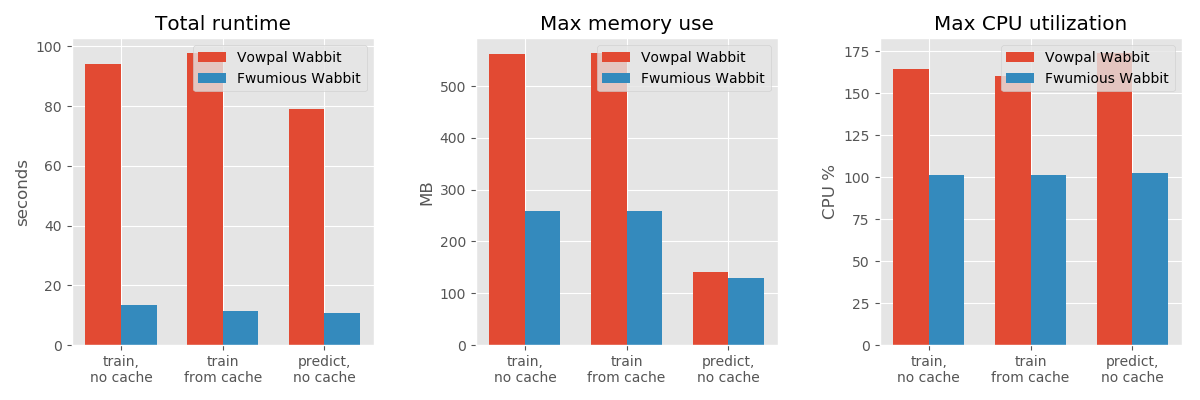
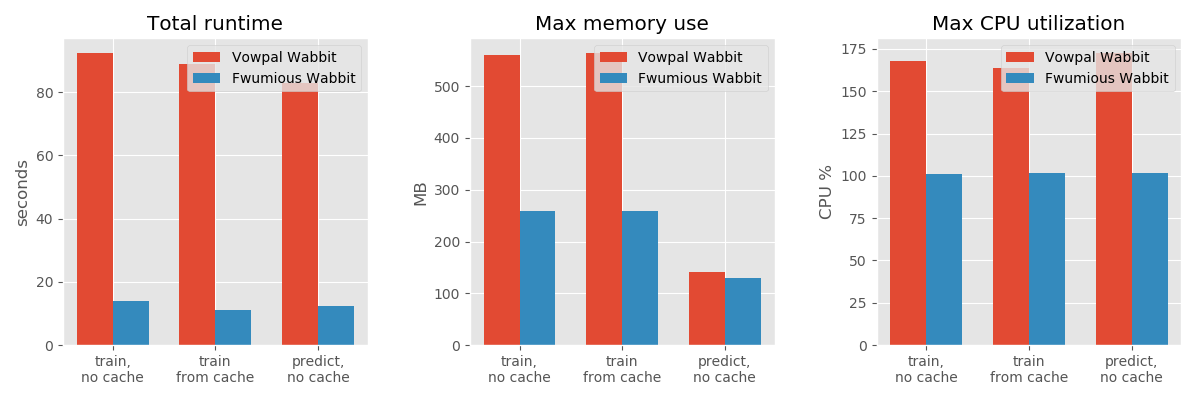
bumping version & benchmark info

diff --git a/src/version.rs b/src/version.rs
@@ -1,1 +1,1 @@
-pub static LATEST: &str = "0.1";
+pub static LATEST: &str = "0.2";

diff --git a/BENCHMARK.md b/BENCHMARK.md
@@ -14,12 +14,12 @@ here are the results for 3 runs for each scenario, taking mean values:
 ![benchmark results](benchmark_results.png)
 Scenario|Runtime (seconds)|Memory (MB)|CPU %
 ----|----:|----:|----:
-vw train, no cache|94.15 | 561 | 164.33
-fw train, no cache|13.30 | 258 | 101.47
-vw train, using cache|97.83 | 564 | 160.40
-fw train, using cache|11.54 | 258 | 101.33
-vw predict, no cache|79.14 | 141 | 174.10
-fw predict, no cache|10.85 | 130 | 102.27
+vw train, no cache|92.41 | 561 | 167.77
+fw train, no cache|13.98 | 258 | 101.13
+vw train, using cache|88.87 | 564 | 163.80
+fw train, using cache|11.05 | 258 | 101.70
+vw predict, no cache|82.74 | 141 | 172.60
+fw predict, no cache|12.21 | 130 | 101.83
 
 ### Model equivalence
 loss values for the test set:
@@ -81,8 +81,8 @@ or, if you just want the numbers with less dependencies run:
 
 ### versions:
 ```
-vowpal wabbit 8.9.0 (git commit: 384a21b01)
-fwumious wabbit 0.1 (git commit: 2a33607)
+vowpal wabbit 8.9.0 (git commit: 583a57e34)
+fwumious wabbit 0.2 (git commit: af11596)
 ```
 
 ### CPU Info
